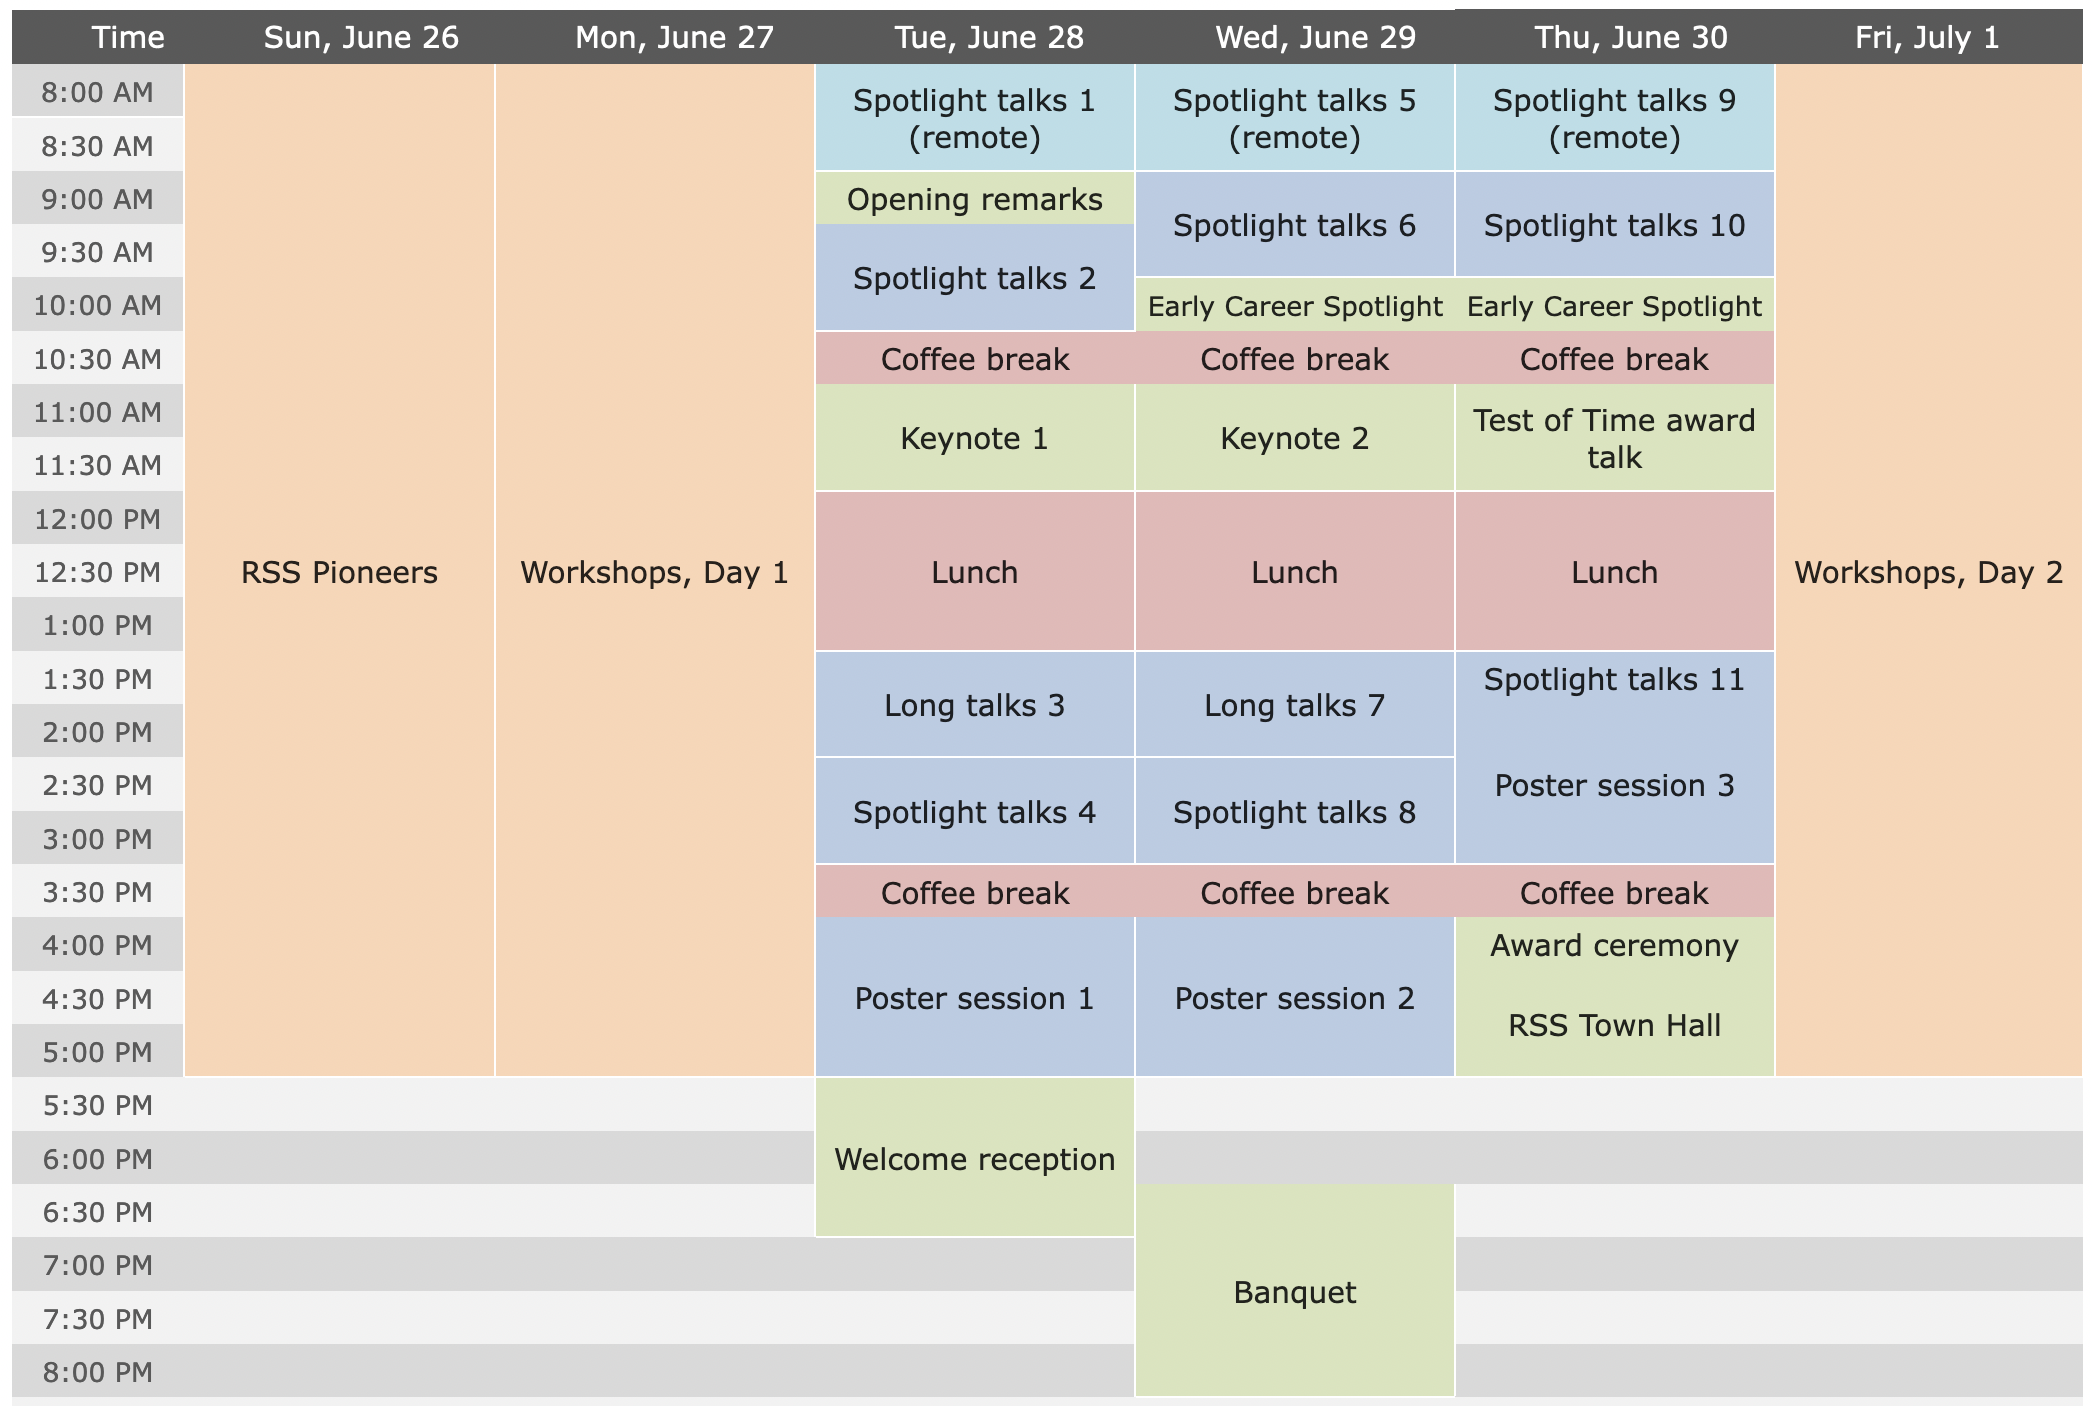
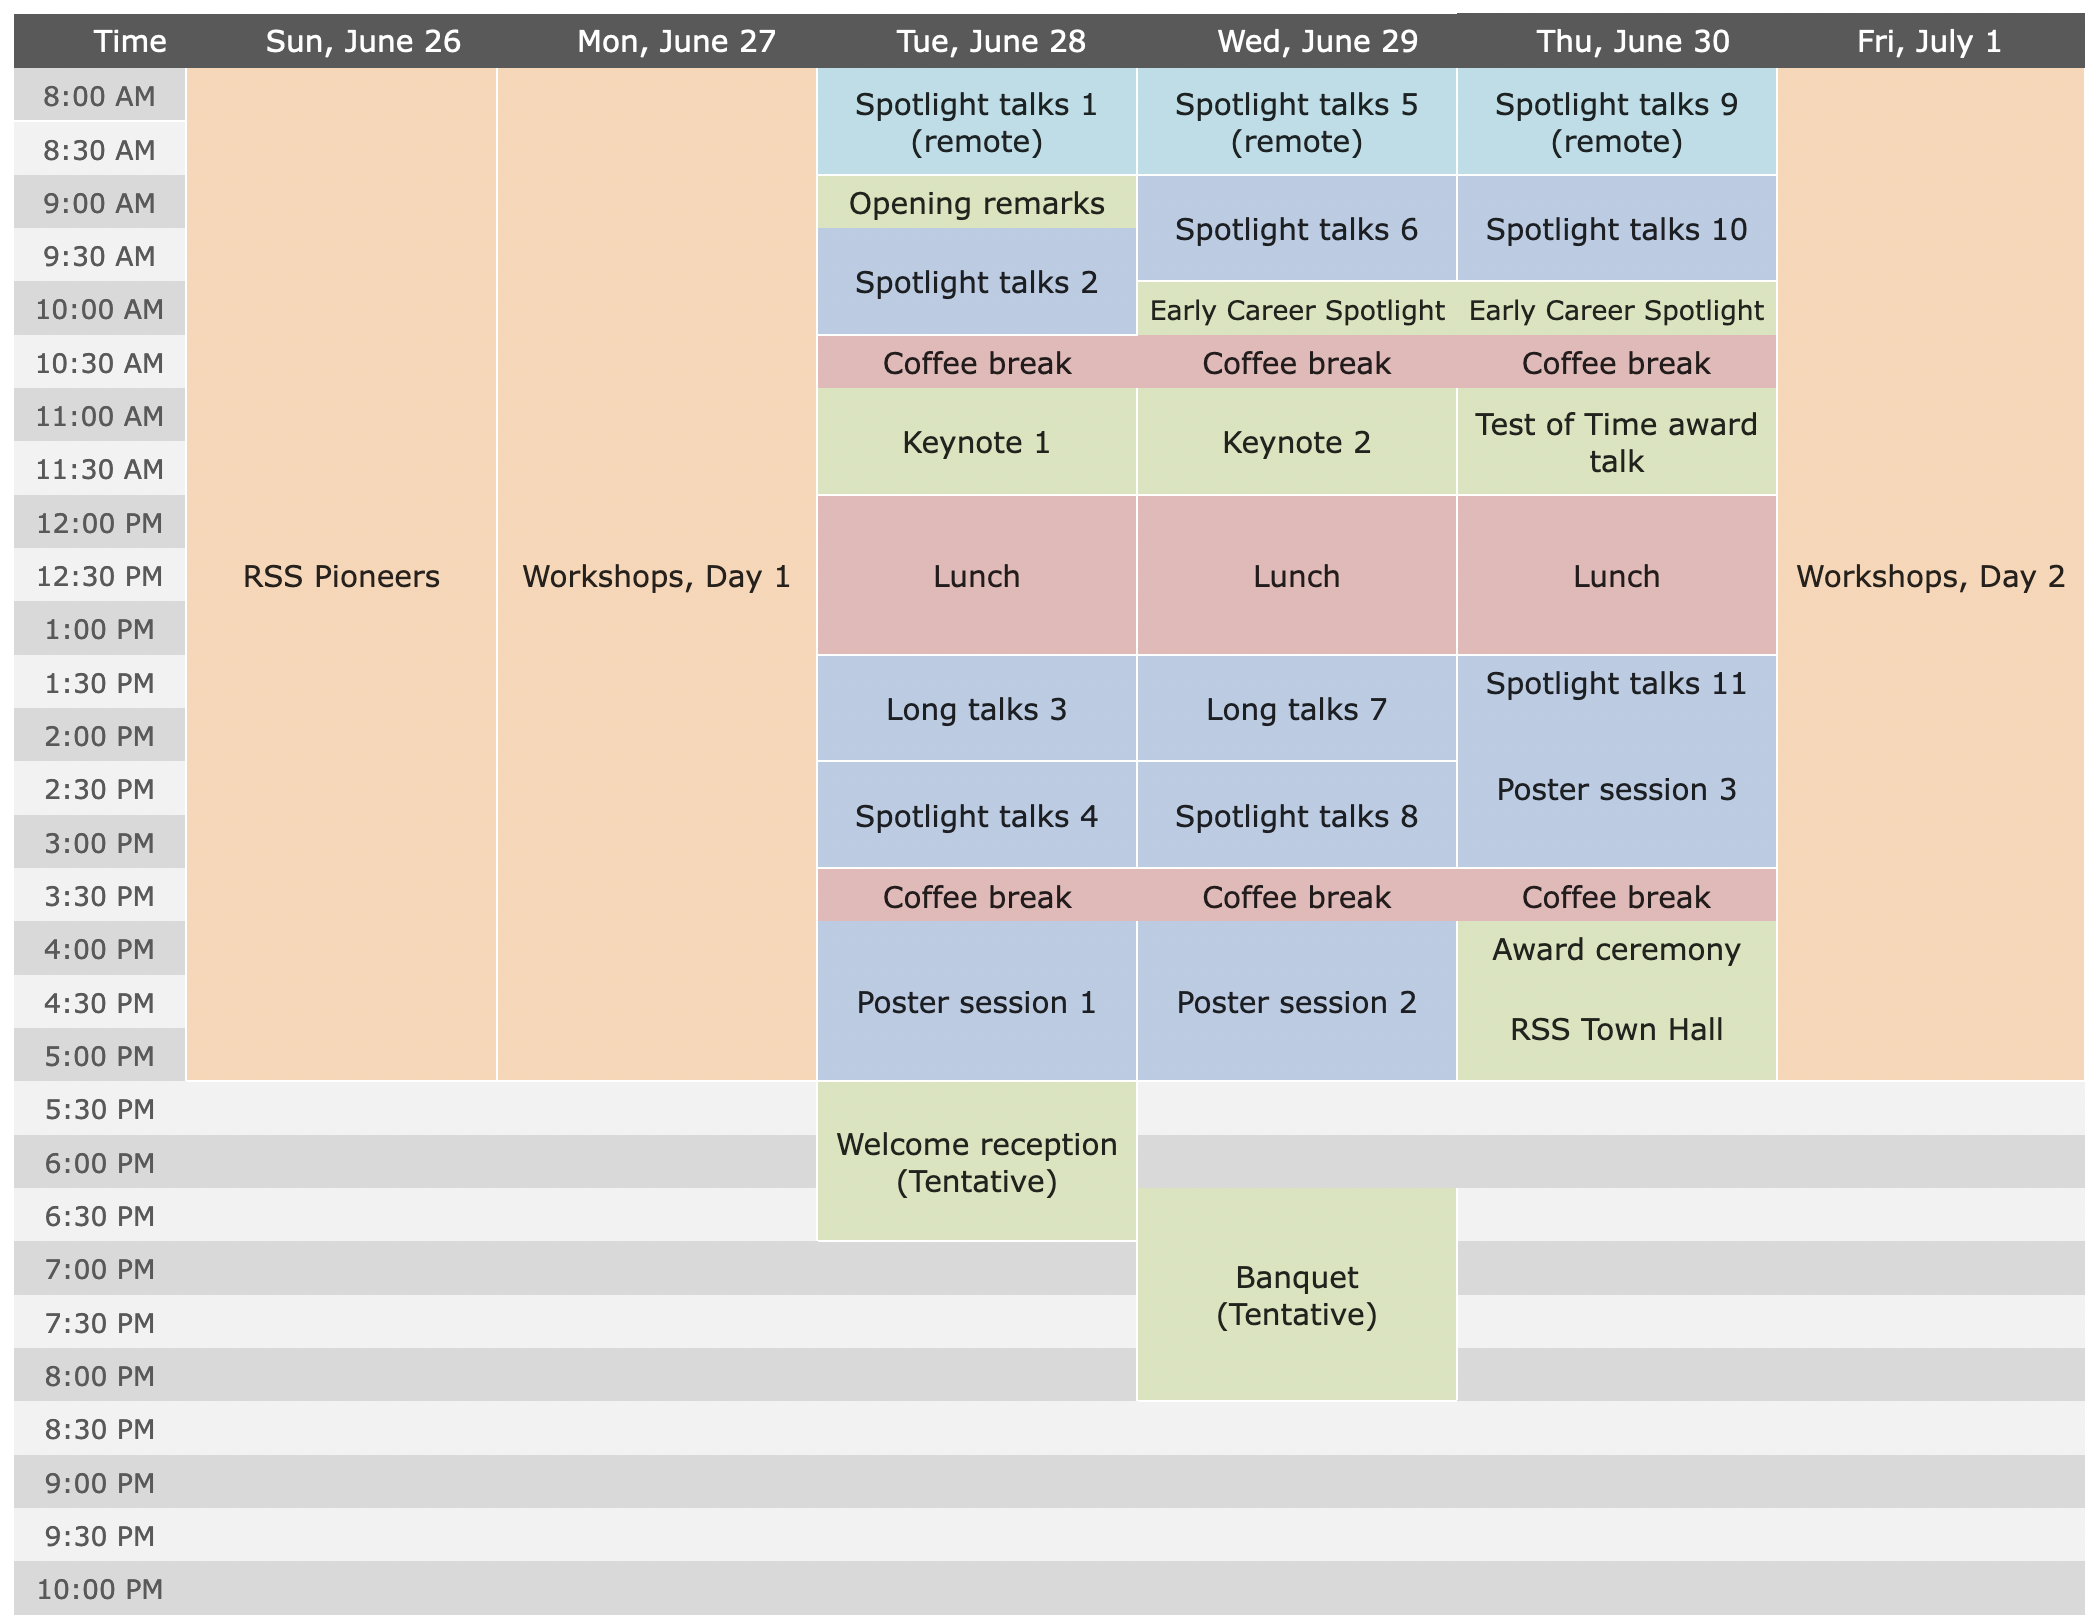
update tentative schedule

diff --git a/_program/schedule.htm b/_program/schedule.htm
@@ -897,7 +897,7 @@ tags will be replaced.-->
   <td class=xl859191 width=144 style='border-top:none;border-left:none;
   width:108pt'>&nbsp;</td>
   <td rowspan=3 class=xl779191 width=144 style='border-bottom:1.0pt solid white;
-  border-top:none;width:108pt'>Welcome reception</td>
+  border-top:none;width:108pt'>Welcome reception<br>(Tentative)</td>
   <td class=xl859191 width=144 style='border-top:none;border-left:none;
   width:108pt'>&nbsp;</td>
   <td class=xl859191 width=144 style='border-top:none;border-left:none;
@@ -933,7 +933,7 @@ tags will be replaced.-->
   <td class=xl859191 width=144 style='border-top:none;border-left:none;
   width:108pt'>&nbsp;</td>
   <td rowspan=4 class=xl779191 width=144 style='border-bottom:1.0pt solid white;
-  border-top:none;width:108pt'>Banquet</td>
+  border-top:none;width:108pt'>Banquet<br>(Tentative)</td>
   <td class=xl859191 width=144 style='border-top:none;border-left:none;
   width:108pt'>&nbsp;</td>
   <td class=xl859191 width=139 style='border-top:none;border-left:none;

diff --git a/_program/overview.md b/_program/overview.md
@@ -6,7 +6,7 @@ priority: 10
 invisible: false
 ---
 
-<p>This schedule makes it easy to find sesssion information, technical content, and events:<br></p>
+<p>This schedule makes it easy to find sesssion information, technical content, and events. <b>Disclaimer:</b> We are still finalizing the schedules of the welcome reception and the banquet. More details will be updated soon.<br></p>
 <center>
 <a href="{{site.baseurl}}/program/schedule.htm">
 <img src="{{site.baseurl}}/program/schedule.png" alt="Event Schedule" width="100%"></a> 
